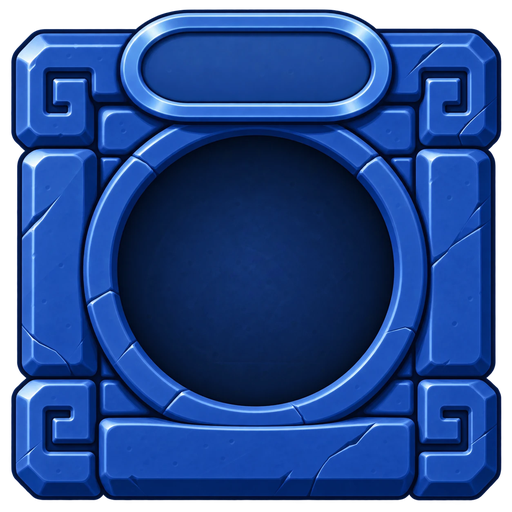
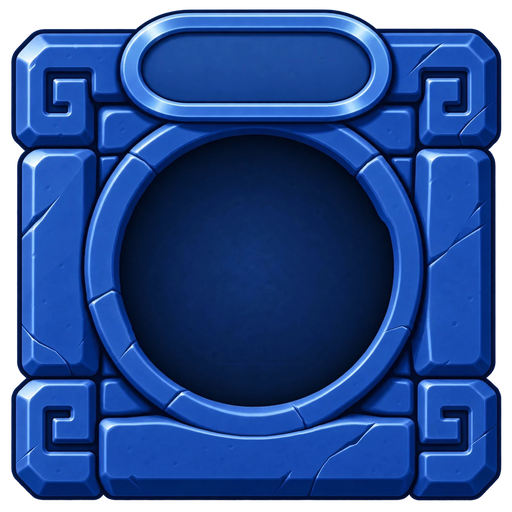
Safe seal: true circles; disk fitted exactly into the recess
Body: recess and its stone ring radially warped to perfect concentric
circles (original cartouche kept on top). Disk: outer gold ring warped to a
perfect circle, rebuilt with exact 3-fold symmetry and cropped centered on
itself; its outer edge now sits exactly on the recess edge.

Claude-Session: https://claude.ai/code/session_011SM6jAozhV5f6ndTXzk3GM

diff --git a/Assets/_Project/Scripts/Grid/SealSafeView.cs b/Assets/_Project/Scripts/Grid/SealSafeView.cs
@@ -20,14 +20,14 @@ public sealed class SealSafeView : MonoBehaviour
     private const string ArtPath = "SealSafe/";
 
     // Gövde kanvasına göre (UI y yukarı): disk yuvası merkezi ve disk boyu, kartuş.
-    private static readonly Vector2 DiskCenter = new Vector2(0.5024f, 0.4880f);
-    private const float DiskSize = 0.6097f;
-    private static readonly Vector2 DiskPivot = new Vector2(0.4976f, 0.5040f);   // disk kanvasında dönme merkezi
+    private static readonly Vector2 DiskCenter = new Vector2(0.4952f, 0.4799f);
+    private const float DiskSize = 0.5576f;   // disk dış kenarı yuvanın iç kenarına tam oturur
+    private static readonly Vector2 DiskPivot = new Vector2(0.5f, 0.5f);   // disk sprite'ı kendi merkezine kırpılı
     private static readonly Vector2 CounterCenter = new Vector2(0.4944f, 0.8684f);
     private static readonly Vector2 CounterSize = new Vector2(0.44f, 0.13f);
     // Disk kanvasına göre: taş yuvası yarıçapı ve taş boyu.
-    private const float SocketRadius = 0.2751f;
-    private const float GemSize = 0.236f;
+    private const float SocketRadius = 0.3016f;
+    private const float GemSize = 0.2569f;
     // Sıradaki slotların açısı (derece, UI): tepe, sağ-alt, sol-alt. Disk sprite'ı 3 katlı simetrik
     // (yuvalar 120° arayla); disk her adımda sıradaki slotu tepeye getirir.
     private static readonly float[] SlotAngles = { 90f, -30f, 210f };
